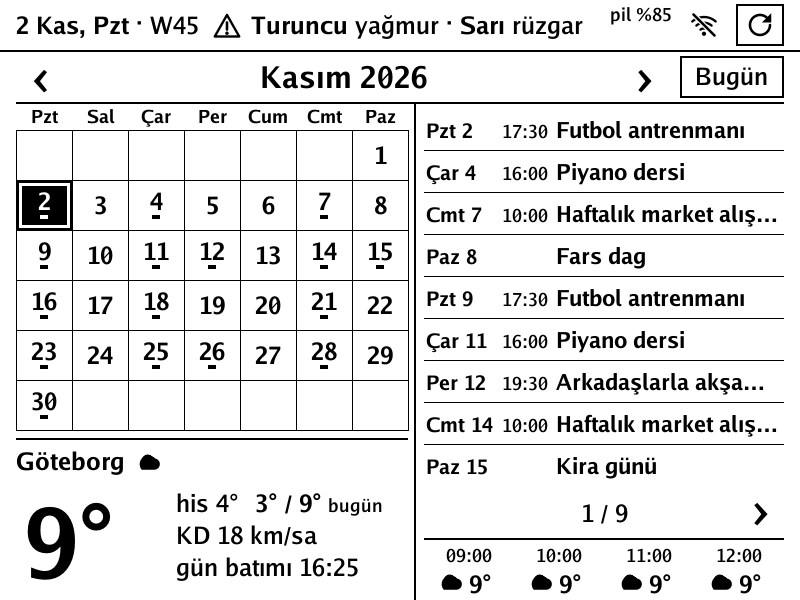
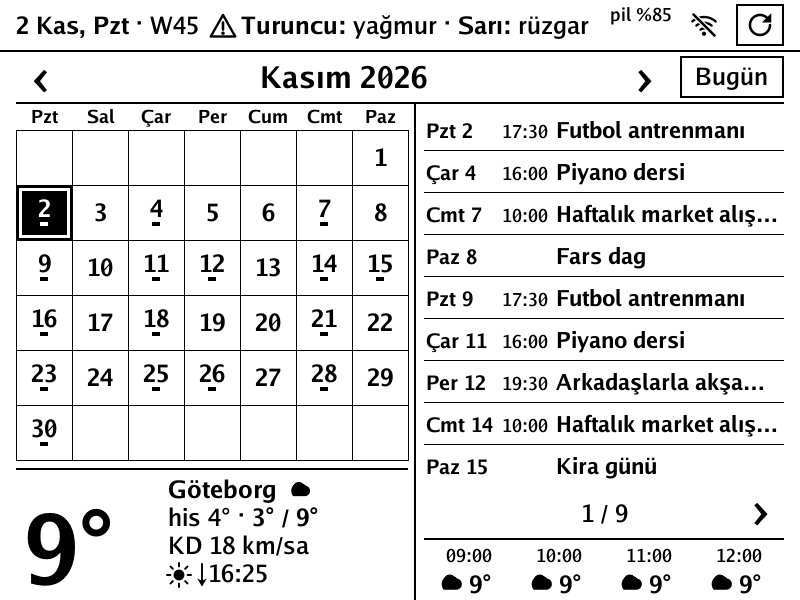
Compact weather block, colon after the warning level
The range loses its 'bugün' label (only tomorrow's says 'yarın'), sunset and
sunrise become '☀↓16:28', and the block shrinks to four short lines beside the
big temperature, giving the month taller rows. Warnings read 'Turuncu: yağmur'.

Changed region(s): [[0.0, 0.3, 0.5, 0.99], [0.25, 0.03, 0.75, 0.06], [0.0312, 0.84, 0.1562, 0.99]]

diff --git a/kobo/screen.go b/kobo/screen.go
@@ -21,9 +21,9 @@ func (a *App) drawMain(img *image.Gray) {
 	a.monthNav(img, image.Rect(mx, 54, W-mx, 100))
 	fill(img, image.Rect(mx, 102, W-mx, 104), black)
 	fill(img, image.Rect(split+6, 104, split+8, H), black)
-	a.dayGrid(img, image.Rect(mx, 104, split, 434), a.month, 6)
-	fill(img, image.Rect(mx, 438, split, 440), black)
-	a.drawNow(img, 440)
+	a.dayGrid(img, image.Rect(mx, 104, split, 464), a.month, 6)
+	fill(img, image.Rect(mx, 468, split, 470), black)
+	a.drawNow(img, 470)
 	a.drawAgenda(img, image.Rect(rx, 108, W-mx, 534), 42)
 	fill(img, image.Rect(rx, 538, W-mx, 540), black)
 	a.drawHours(img, rx, 540, 4)
@@ -240,52 +240,57 @@ func (a *App) drawAgenda(img *image.Gray, r image.Rectangle, rowH int) {
 
 // ---------------------------------------------------------------- weather
 
-// drawNow: under the month, from y: place + icon, the big temperature, and beside it
-// feels-like + the day's range, wind, sunset/sunrise.
+// drawNow: under the month, from y: the big temperature, and beside it three short lines:
+// "Göteborg ☁", "his 8° · 11° / 12°" (tomorrow's range after 17:00 says "yarın"), "GB 18 km/sa", "☀↓16:28".
 func (a *App) drawNow(img *image.Gray, y int) {
 	if a.wDetail == nil {
 		text(img, mx, y+44, "Hava durumu alınamadı", face(true, tMid), black)
 		return
 	}
 	g, h := a.wDetail.Current, a.wDetail.Hourly
-	small, bold := face(false, tSmall), face(true, tSmall)
-	x := text(img, mx, y+30, a.place.Name, bold, black)
-	icon(img, wcat(g.Code), x+8, y+6, 30)
+	small, bold, tiny := face(false, tSmall), face(true, tSmall), face(false, tTiny)
+	const tx = 24 // the bezel overlaps the panel's left edge
+	lx := max(text(img, tx, y+114, fmt.Sprintf("%d°", round(g.Temp)), face(true, 96), black)+16, 168)
+	x := text(img, lx, y+28, a.place.Name, bold, black)
+	icon(img, wcat(g.Code), x+8, y+4, 28)
 	if a.wErr != nil && !a.weatherAt.IsZero() { // last fetch failed: how old these numbers are
 		s := "veri " + a.weatherAt.In(a.loc).Format("15:04")
-		text(img, split-textW(small, s), y+30, s, small, black)
+		text(img, split-textW(tiny, s), y+28, s, tiny, black)
 	}
-	const tx = 24 // the bezel overlaps the panel's left edge
-	tw := text(img, tx, y+138, fmt.Sprintf("%d°", round(g.Temp)), face(true, 96), black)
-	lx := max(tw+18, 176)
-	x = text(img, lx, y+72, fmt.Sprintf("his %d°", round(atf(h.Feels, 0))), small, black)
+	x = text(img, lx, y+56, fmt.Sprintf("his %d°", round(atf(h.Feels, 0))), small, black)
 	if w := a.wDetail; w.Span != "" {
-		x = text(img, x+16, y+72, fmt.Sprintf("%d° / %d°", round(w.Lo), round(w.Hi)), bold, black)
-		if tiny := face(false, tTiny); x+6+textW(tiny, w.Span) <= split {
-			text(img, x+6, y+72, w.Span, tiny, black)
+		x = text(img, x, y+56, " · ", small, black)
+		x = text(img, x, y+56, fmt.Sprintf("%d° / %d°", round(w.Lo), round(w.Hi)), bold, black)
+		if w.Span == "yarın" && x+6+textW(tiny, w.Span) <= split {
+			text(img, x+6, y+56, w.Span, tiny, black)
 		}
 	}
-	text(img, lx, y+104, fmt.Sprintf("%s %d km/sa", compass(atf(h.WindDir, 0)), round(atf(h.Wind, 0))), small, black)
-	if s := a.sunLine(); s != "" {
-		text(img, lx, y+136, s, small, black)
+	text(img, lx, y+84, fmt.Sprintf("%s %d km/sa", compass(atf(h.WindDir, 0)), round(atf(h.Wind, 0))), small, black)
+	if up, t, ok := a.sun(); ok {
+		arrow := "↓"
+		if up {
+			arrow = "↑"
+		}
+		icon(img, "sun", lx-2, y+92, 26)
+		text(img, lx+28, y+112, arrow+t, small, black)
 	}
 }
 
-// sunLine: today's sunset, or the next sunrise before dawn and after dusk.
-func (a *App) sunLine() string {
+// sun: the next sunrise (up) or today's sunset.
+func (a *App) sun() (up bool, at string, ok bool) {
 	now, p := clock().In(a.loc), a.place
 	rise, set, ok := sunTimes(p.Lat, p.Lon, now)
 	switch {
 	case !ok:
-		return ""
+		return false, "", false
 	case now.Before(rise):
-		return "gün doğumu " + rise.Format("15:04")
+		return true, rise.Format("15:04"), true
 	case now.After(set):
 		if r2, _, ok2 := sunTimes(p.Lat, p.Lon, now.AddDate(0, 0, 1)); ok2 {
-			return "gün doğumu " + r2.Format("15:04")
+			return true, r2.Format("15:04"), true
 		}
 	}
-	return "gün batımı " + set.Format("15:04")
+	return false, set.Format("15:04"), true
 }
 
 // drawHours: the next n hours in one thin strip from (x, y): time over icon + temperature.
@@ -303,23 +308,21 @@ func (a *App) drawHours(img *image.Gray, x, y, n int) {
 	}
 }
 
-// warnLine: every warning on one line from x to right at baseline y, shortened step by step:
-// "Turuncu – şiddetli yağmur", "Turuncu – yağmur", "Turuncu yağmur"; what still won't fit is "+N".
+// warnLine: every warning on one line from x to right at baseline y: "Turuncu: şiddetli yağmur",
+// shortened to "Turuncu: yağmur" when they don't all fit; what still won't fit is "+N".
 func (a *App) warnLine(img *image.Gray, x, y, right int) {
 	small, bold := face(false, tSmall), face(true, tSmall)
 	icon(img, "warn", x, y-22, 28)
-	x0 := x + 38
+	x0 := x + 32
 	seg := func(w Warning, form int) (string, string) {
 		switch form {
 		case 0:
-			return warnLabel[w.Level] + " – ", w.Text
-		case 1:
-			return warnLabel[w.Level] + " – ", shortReason(w.Text)
+			return warnLabel[w.Level] + ": ", w.Text
 		}
-		return warnLabel[w.Level] + " ", shortReason(w.Text)
+		return warnLabel[w.Level] + ": ", shortReason(w.Text)
 	}
 	form := 0
-	for ; form < 2; form++ {
+	for ; form < 1; form++ {
 		n := x0
 		for i, w := range a.warnings {
 			l, r := seg(w, form)

diff --git a/kobo/ui.go b/kobo/ui.go
@@ -310,7 +310,7 @@ func (a *App) nav(img *image.Gray) {
 	x := text(img, dx, 34, date, face(true, tSmall), black)
 	x = text(img, x, 34, fmt.Sprintf(" · W%d", week), face(false, tSmall), black)
 	if len(a.warnings) > 0 {
-		a.warnLine(img, x+14, 34, dx+room)
+		a.warnLine(img, x+10, 34, dx+room)
 	}
 	fill(img, image.Rect(0, 50, W, 52), black)
 }

diff --git a/README.md b/README.md
@@ -14,8 +14,8 @@ One screen, calendar first:
 
 - **The month** on the left, Monday first: bars under a date mark your own events, red days are shaded, today is inverted. Tap a day to select it; arrows change the month, "Bugün" goes back to today.
 - **The list** on the right: the selected day and every event after it, one line each (`Cmt 7  14:00  Bahar Ece Basketbol`), paged. Sources are your private ICS links plus Swedish public holidays.
-- **The weather now** under the month: the home city with a large temperature, feels-like, the day's min/max (tomorrow's after 17:00), wind, and sunset or sunrise. Under the list, a thin strip with the next four hours. Both come from the [SMHI](https://opendata.smhi.se) point forecast (no API key; SMHI only covers the Nordics).
-- **Official SMHI warnings** in the top bar, right of the date and ISO week, on one line: `Turuncu – şiddetli yağmur · Sarı – kuvvetli rüzgar`, shortened to `Turuncu yağmur · Sarı rüzgar` (and the month name to `Kas`) when space runs out.
+- **The weather now** under the month: the home city with a large temperature and four short lines beside it: place, feels-like with the day's min/max (tomorrow's after 17:00, marked `yarın`), wind, and the next sunset or sunrise (`☀↓16:28`). Under the list, a thin strip with the next four hours. Both come from the [SMHI](https://opendata.smhi.se) point forecast (no API key; SMHI only covers the Nordics).
+- **Official SMHI warnings** in the top bar, right of the date and ISO week, on one line: `Turuncu: şiddetli yağmur · Sarı: kuvvetli rüzgar`, shortened to `Turuncu: yağmur · Sarı: rüzgar` (and the month name to `Kas`) when space runs out.
 - **Where it is**, unless the config names a place: the city is looked up from the public IP once a day ([geojs.io](https://www.geojs.io) and [ipwho.is](https://ipwho.is), no key). The two have to agree within 50 km, and a move further than that is only believed when a second lookup an hour later says the same, because IP databases put some ISPs in Stockholm one minute and Göteborg the next. The county found this way also picks the SMHI warnings, unless `WARN_REGION` is set.
 - A top bar with the next scheduled update and battery level, Wi-Fi state (tap to pin it on) and a refresh button that also checks for a new release.
 
